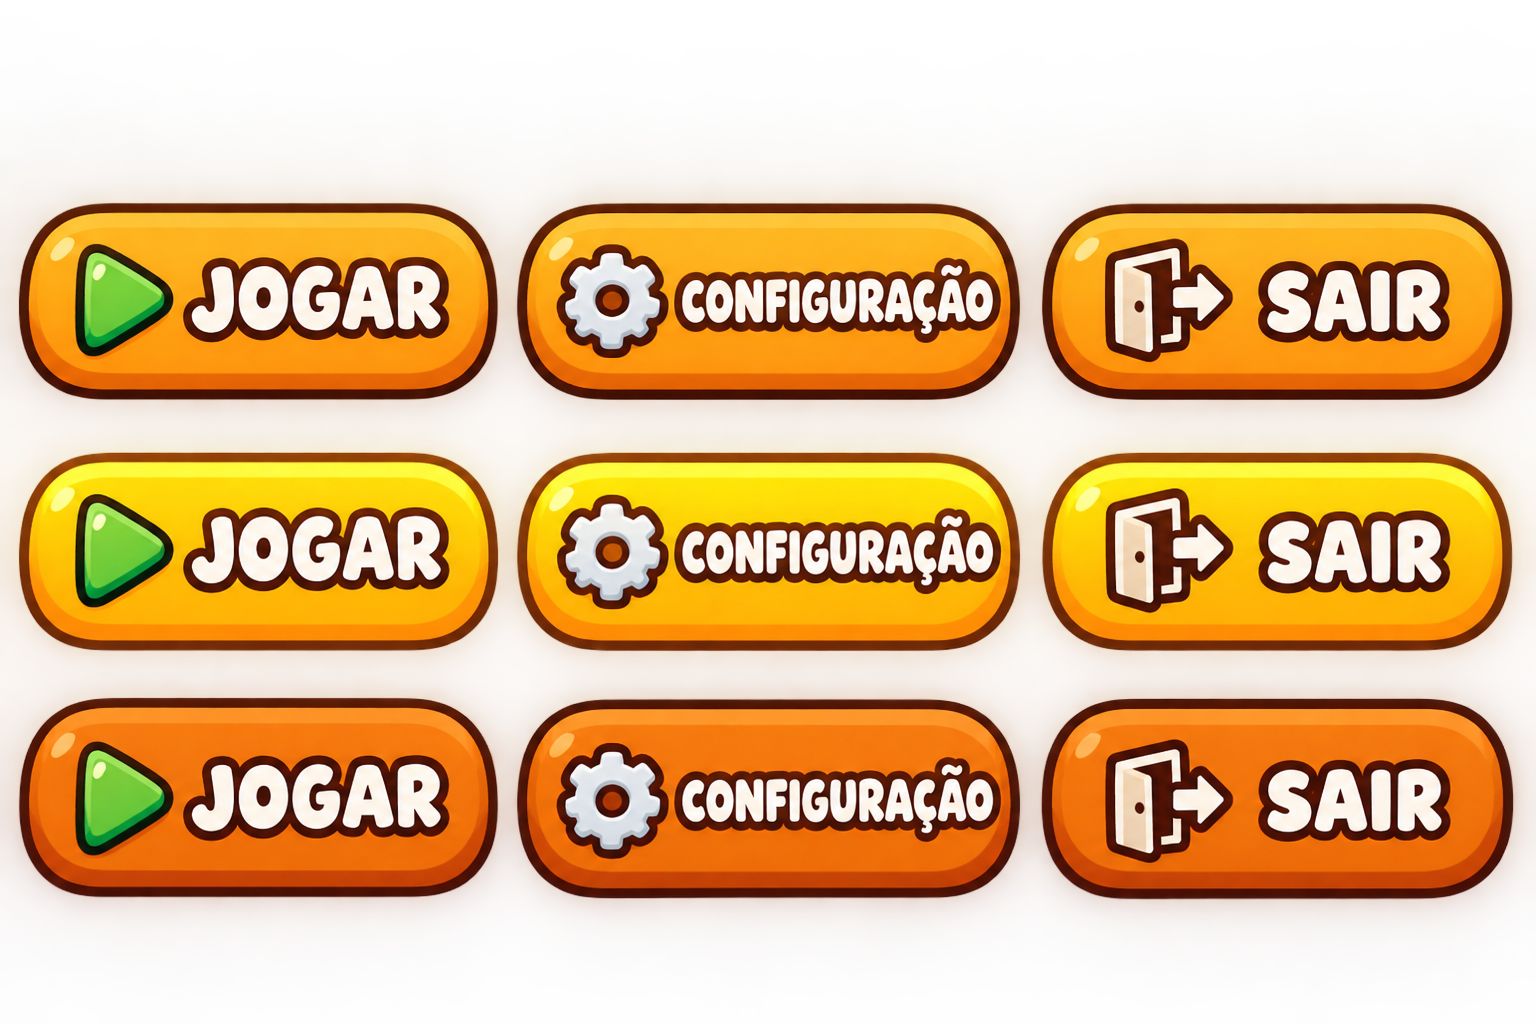
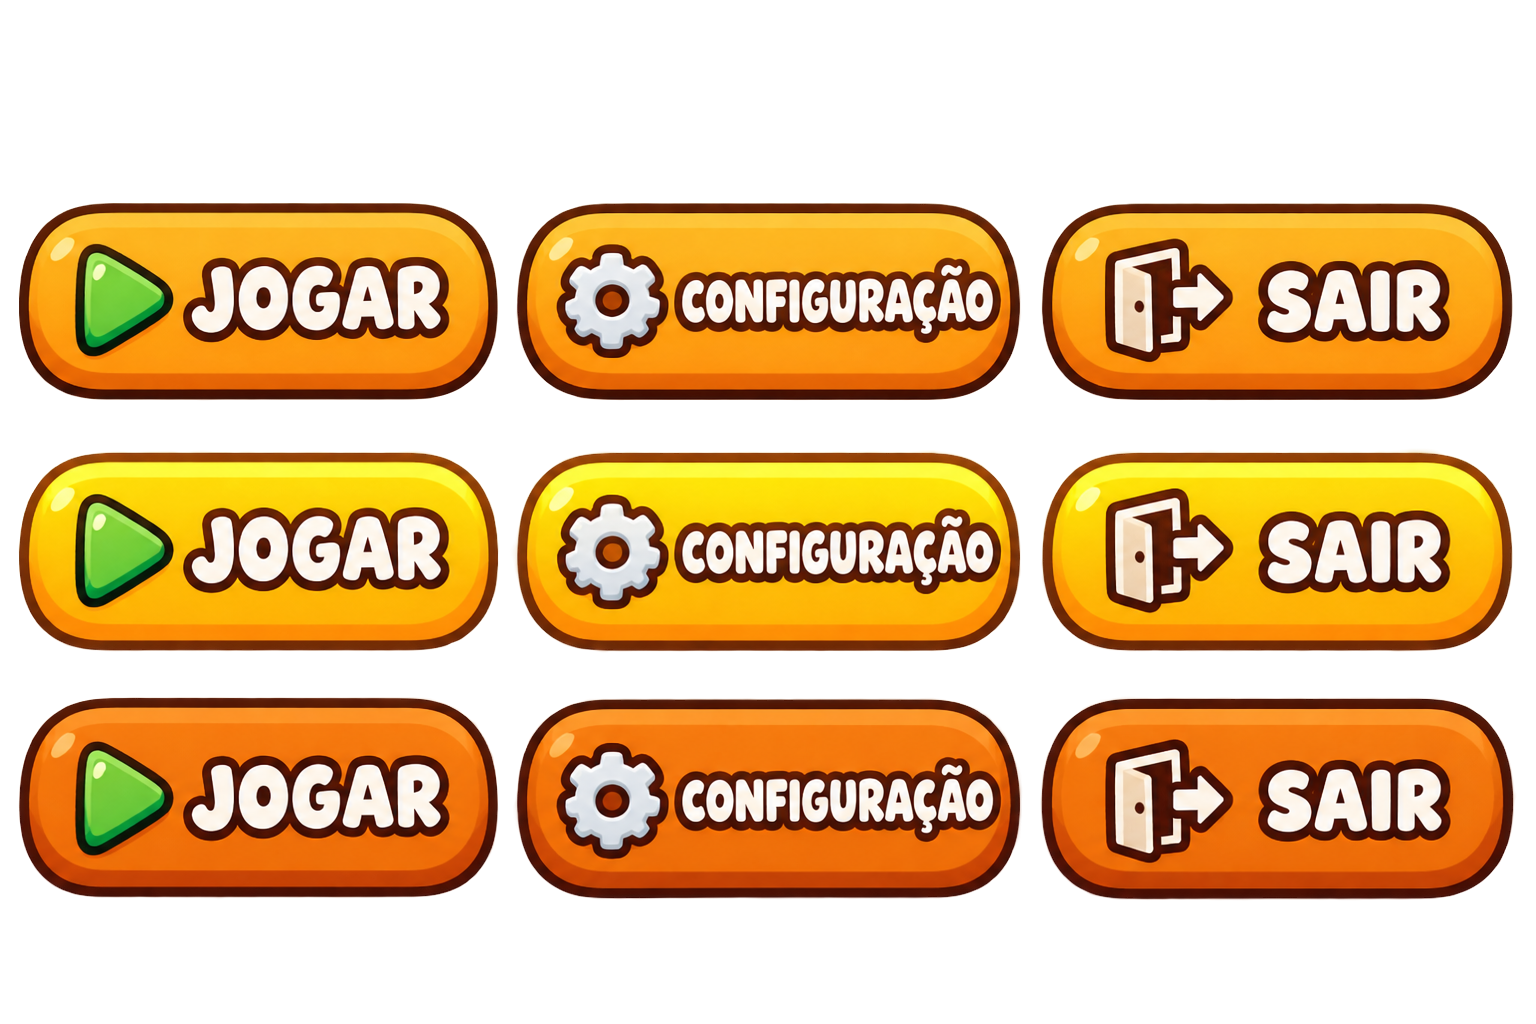
(feat): fundo novo e botões do menu inicial

diff --git a/Assets/Scripts/UI/MainMenu.cs b/Assets/Scripts/UI/MainMenu.cs
@@ -8,12 +8,14 @@ public class MainMenu : MonoBehaviour
     [SerializeField] private GameObject painelOpcoes;
     [SerializeField] private Slider sliderVolume;
     [SerializeField] private Toggle toggleTelaCheia;
+    [Tooltip("Escondidos enquanto as opções estão abertas.")]
+    [SerializeField] private GameObject[] botoesMenu = {};
 
     private const string ChaveVolume = "volume";
 
     private void Start()
     {
-        painelOpcoes.SetActive(false);
+        MostrarOpcoes(false);
 
         float volume = PlayerPrefs.GetFloat(ChaveVolume, 1f);
         AudioListener.volume = volume;
@@ -30,13 +32,20 @@ public class MainMenu : MonoBehaviour
     public void AbrirOpcoes()
     {
         Sfx.Play(SfxId.UiConfirm);
-        painelOpcoes.SetActive(true);
+        MostrarOpcoes(true);
     }
 
     public void FecharOpcoes()
     {
         Sfx.Play(SfxId.UiBack);
-        painelOpcoes.SetActive(false);
+        MostrarOpcoes(false);
+    }
+
+    private void MostrarOpcoes(bool abertas)
+    {
+        painelOpcoes.SetActive(abertas);
+        foreach (GameObject botao in botoesMenu)
+            botao.SetActive(!abertas);
     }
 
     public void DefinirVolume(float valor)
